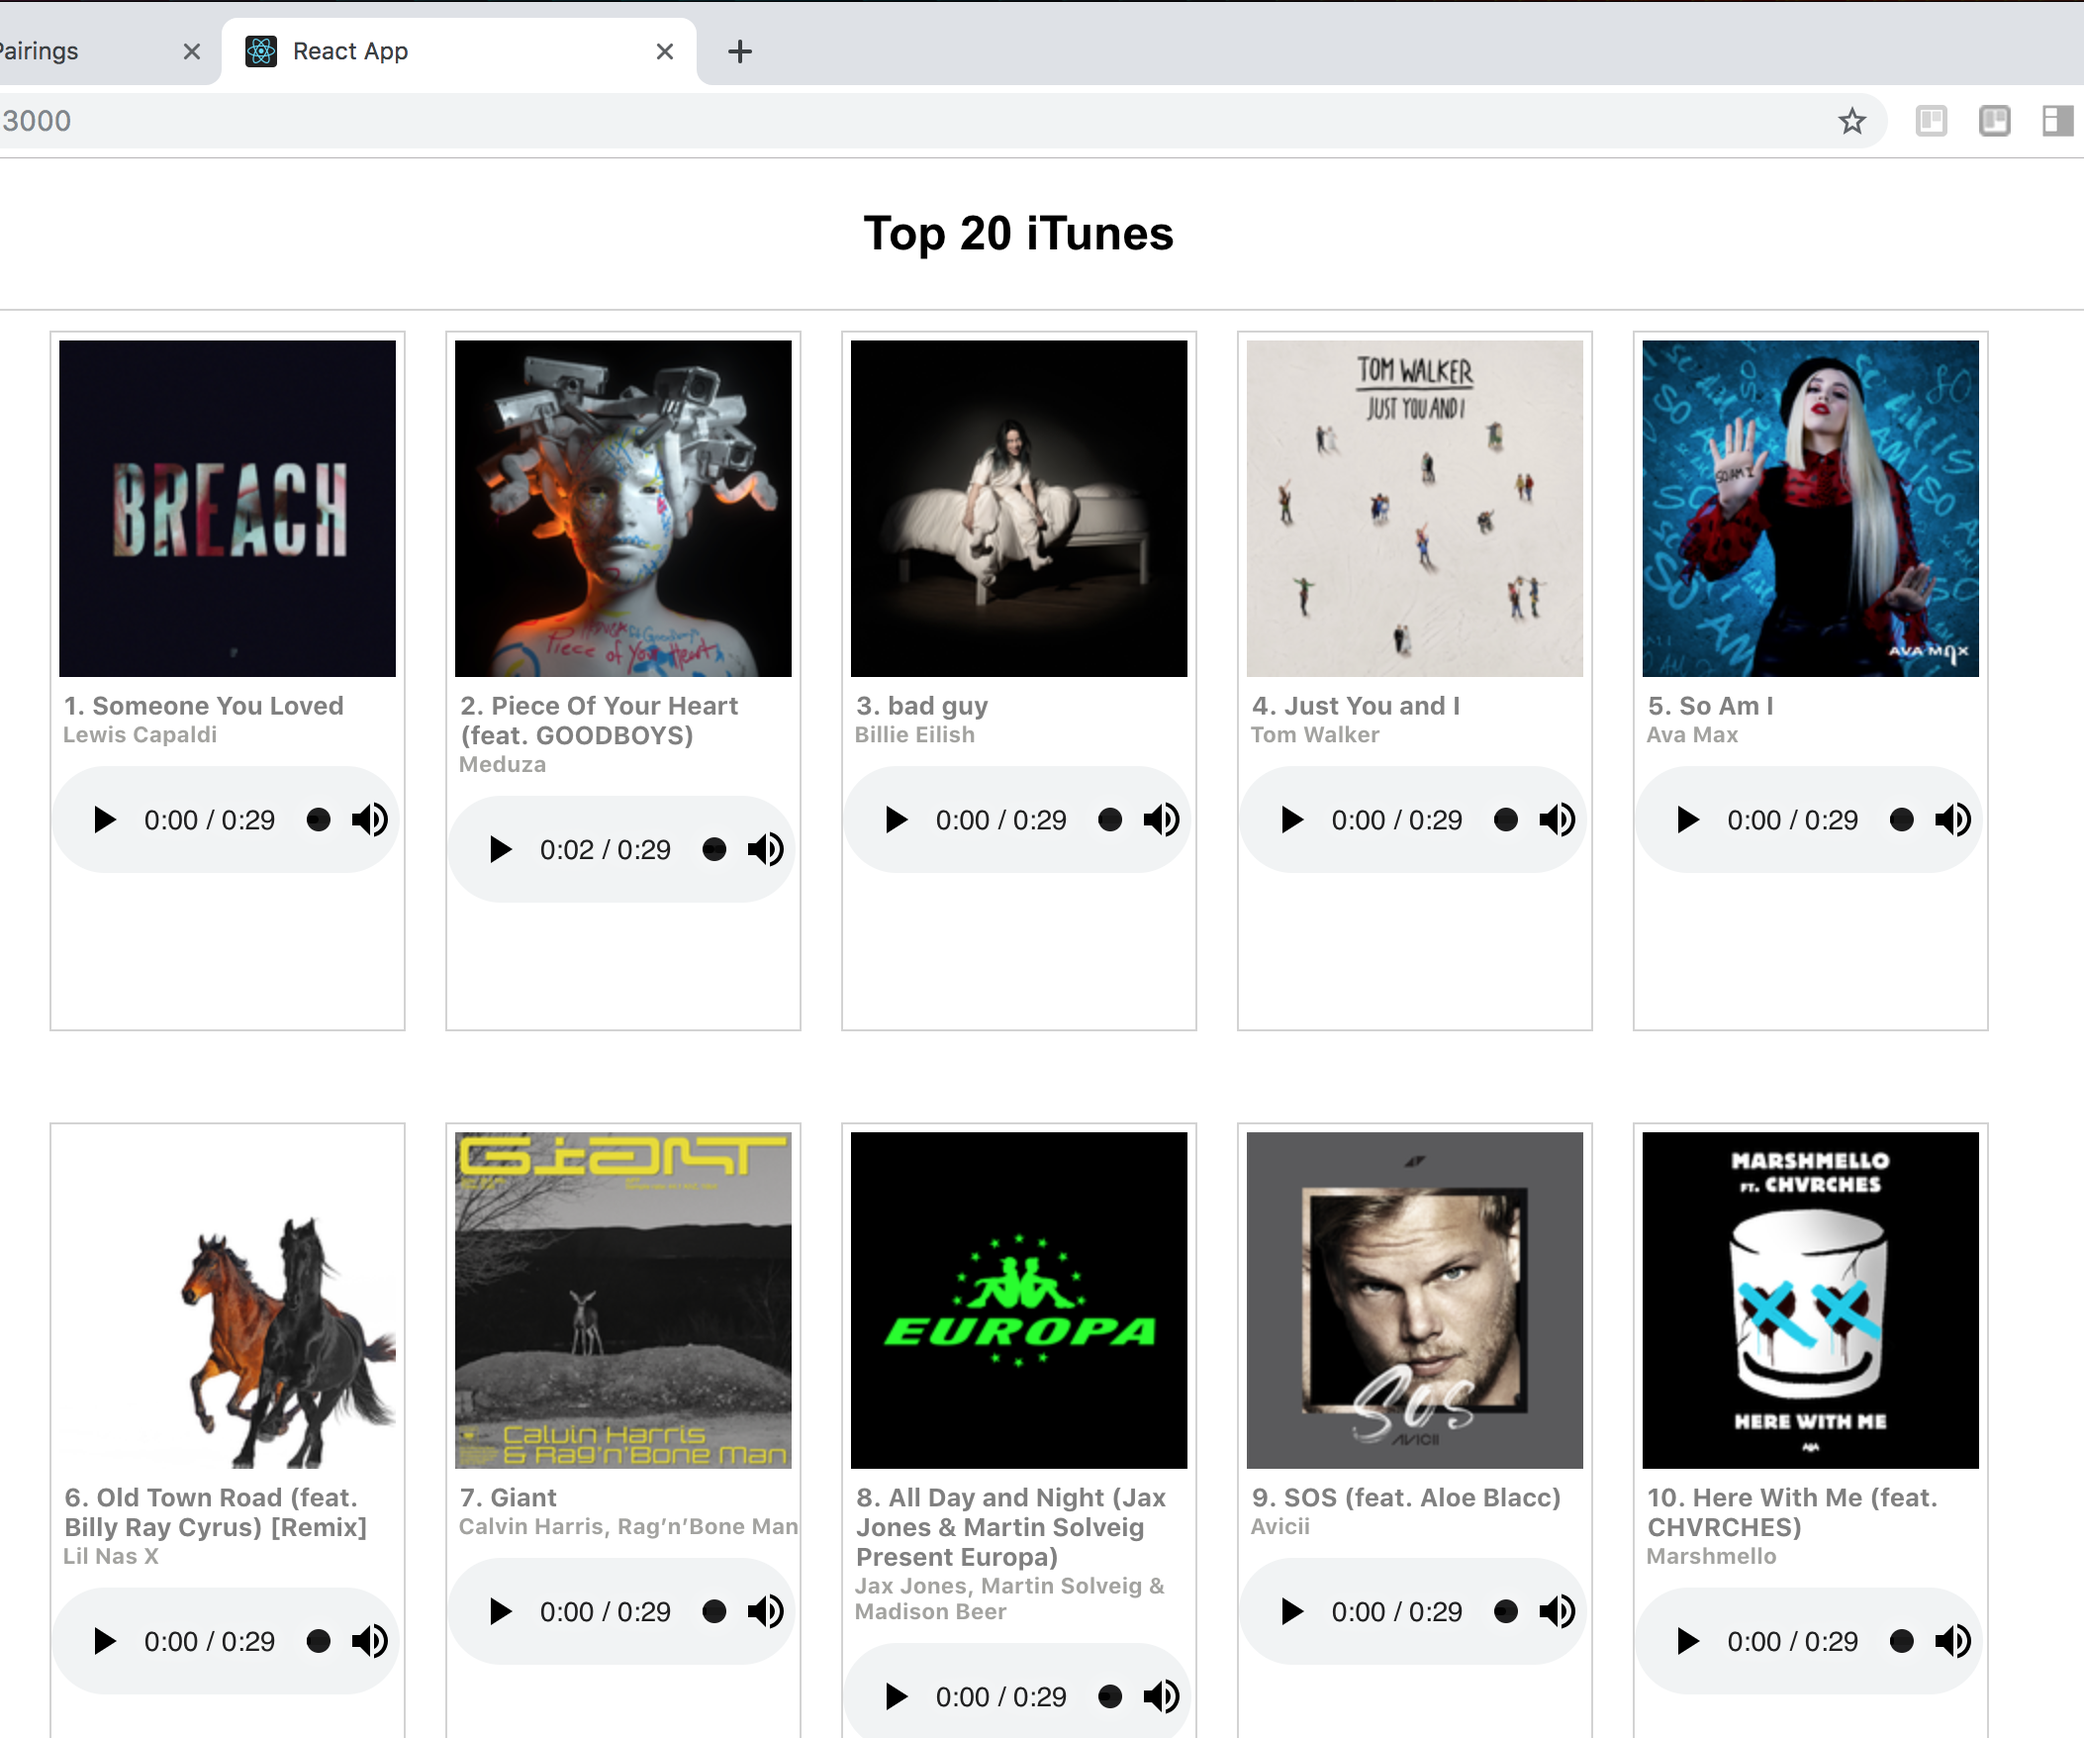
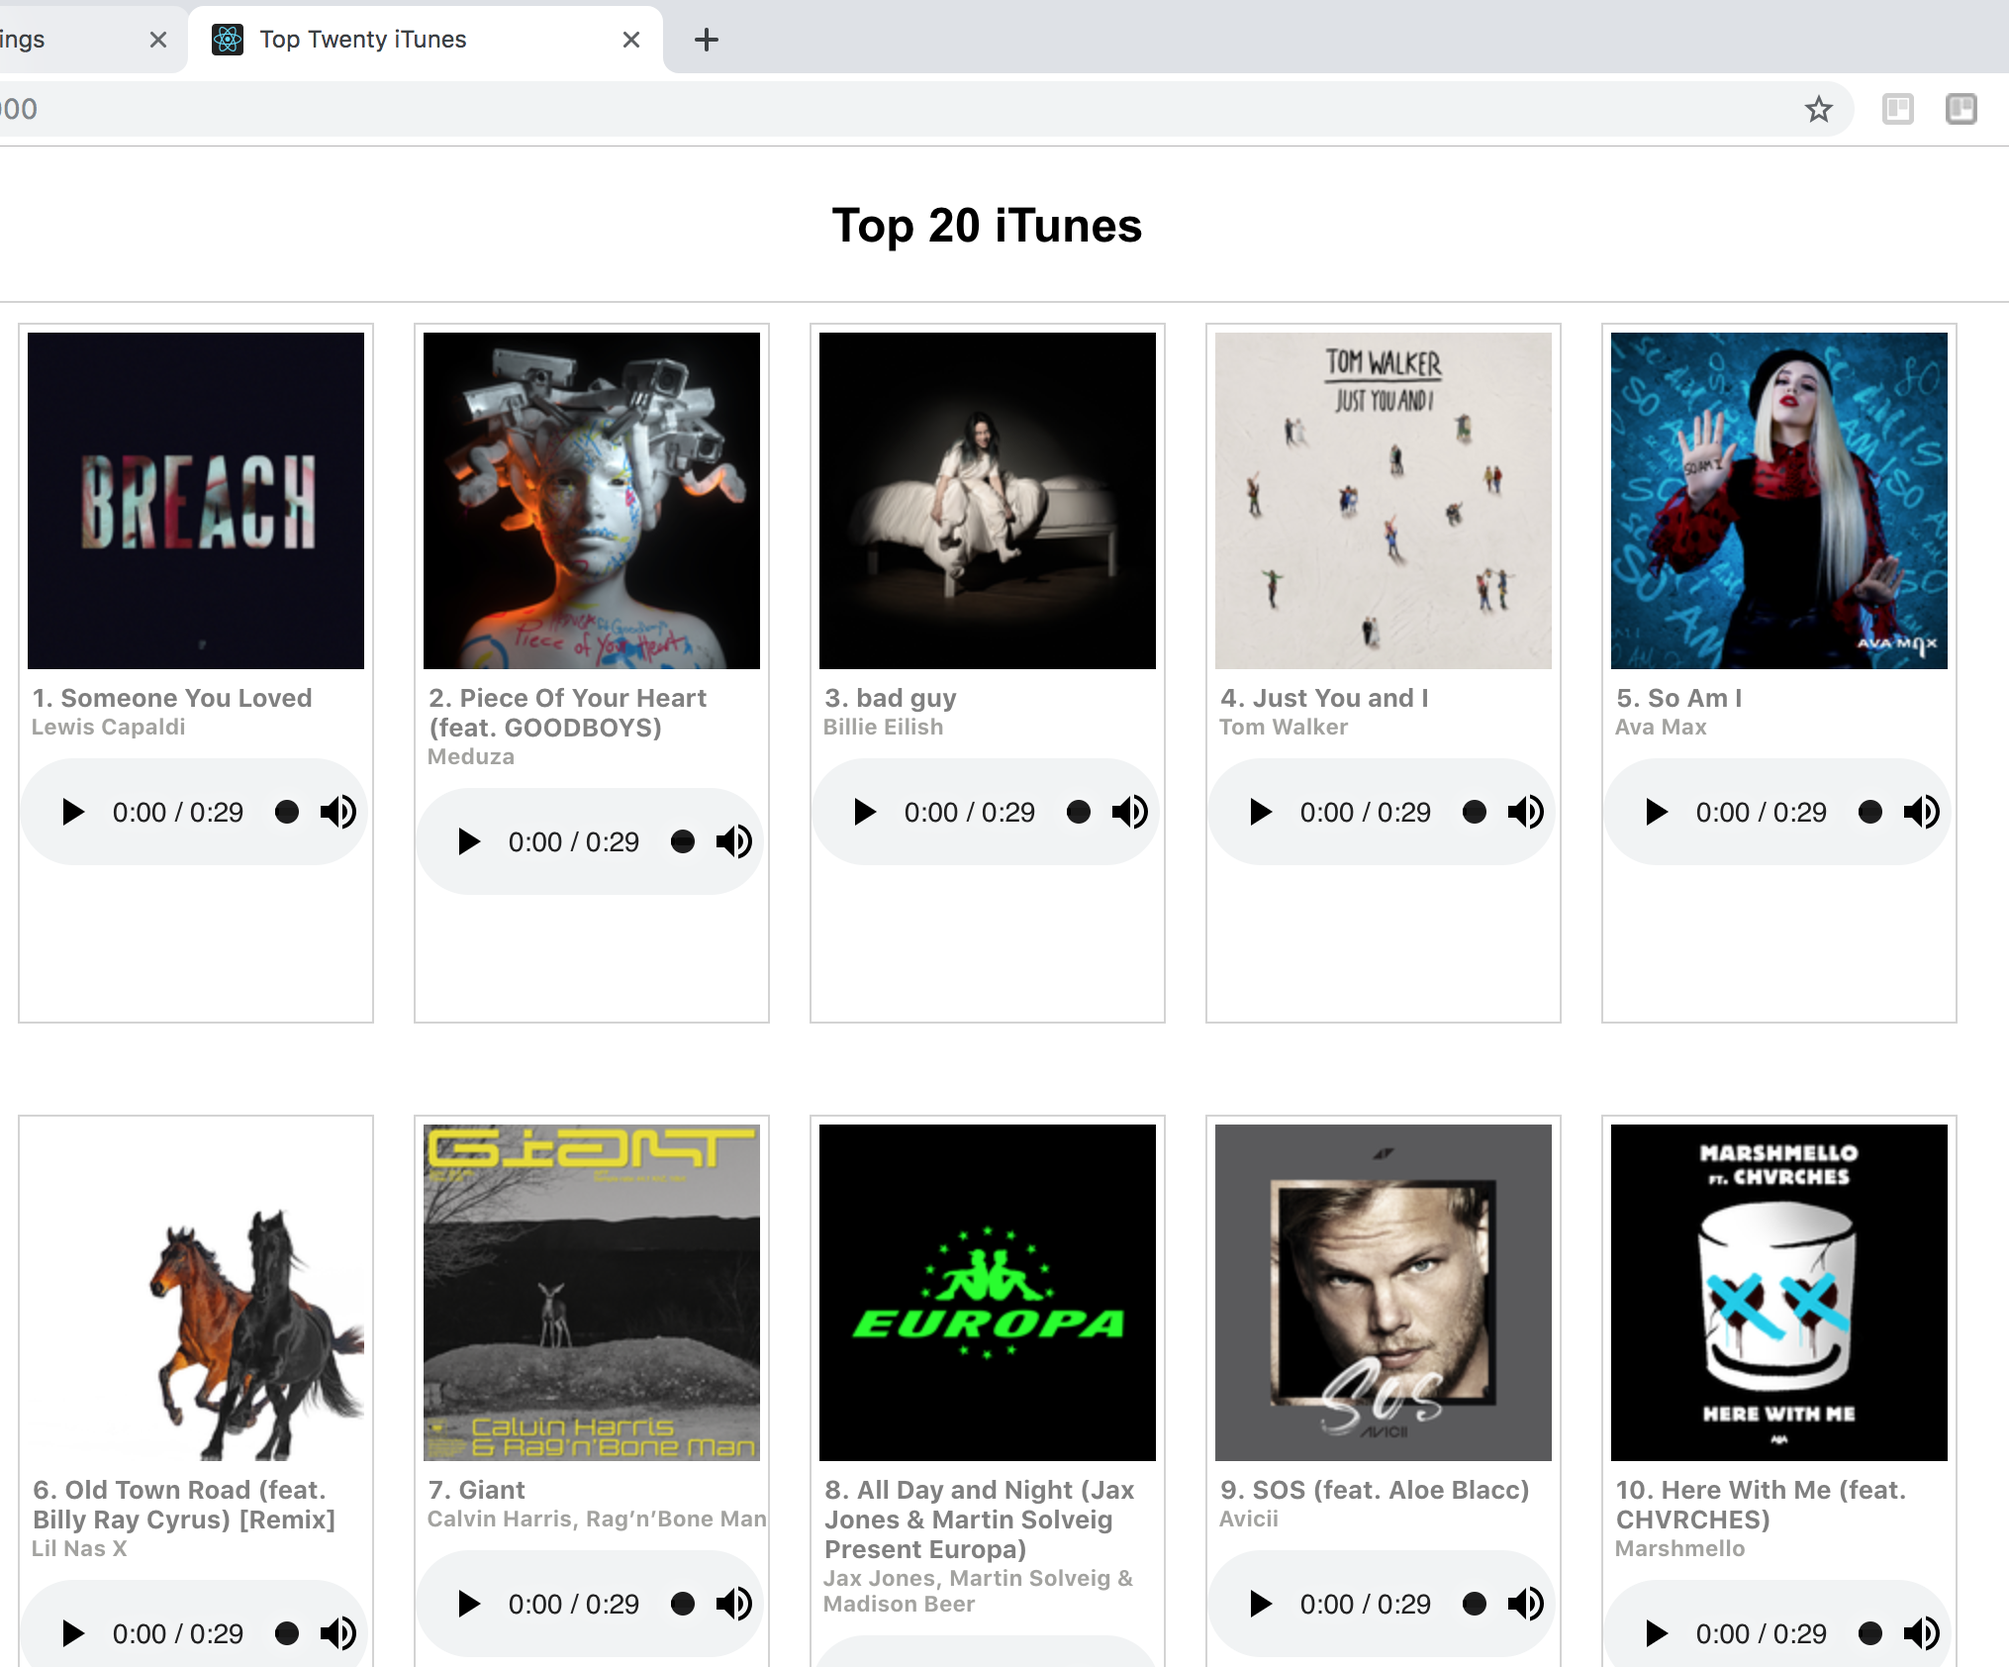
changed screenshot

diff --git a/src/components/SongItem.js b/src/components/SongItem.js
@@ -4,14 +4,14 @@ import './SongItem.css';
 const SongItem = (props) => {
   return (
     <div className = "song-item-div">
-      <img className= "image" src = {props.tune['im:image'][2]['label']} />
-      <p className = "position">{props.children}. {props.tune['im:name'].label}</p>
+    <img className= "image" src = {props.tune['im:image'][2]['label']} />
+    <p className = "position">{props.children}. {props.tune['im:name'].label}</p>
     <p className = "artist">{props.tune['im:artist'].label}</p>
     <p><audio className = "audio"
-        controls
-        src={props.tune['link'][1]['attributes']['href']}>
-            Your browser does not support the
-            <code>audio</code> element.
+    controls
+    src={props.tune['link'][1]['attributes']['href']}>
+    Your browser does not support the
+    <code>audio</code> element.
     </audio></p>
     </div>
   )

diff --git a/public/index.html b/public/index.html
@@ -22,7 +22,7 @@
       work correctly both with client-side routing and a non-root public URL.
       Learn how to configure a non-root public URL by running `npm run build`.
     -->
-    <title>React App</title>
+    <title>Top Twenty iTunes</title>
   </head>
   <body>
     <noscript>You need to enable JavaScript to run this app.</noscript>

diff --git a/src/components/SongItem.css b/src/components/SongItem.css
@@ -7,16 +7,17 @@
   padding: 0;
   height:22em;
 }
+
 p {
   padding:0;
   margin:0;
 }
 
 .position {
- font-size:.8em;
- font-weight: bold;
- color: gray;
- padding-left: .5em;
+  font-size:.8em;
+  font-weight: bold;
+  color: gray;
+  padding-left: .5em;
 }
 
 .song-title{

diff --git a/src/components/SongList.js b/src/components/SongList.js
@@ -16,7 +16,7 @@ const SongList = ({tunes}) => {
 
   return (
     <div className='top-twenty-results'>
-      {songItems}
+    {songItems}
     </div>
   )
 }
